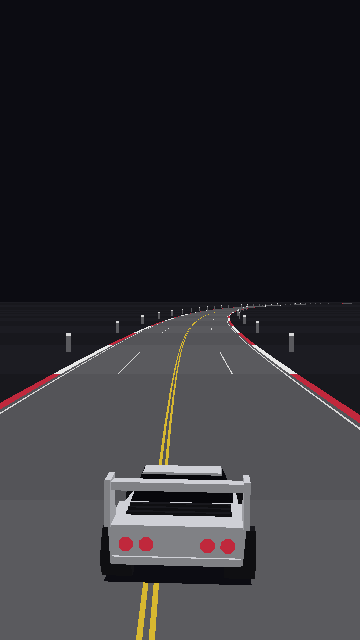
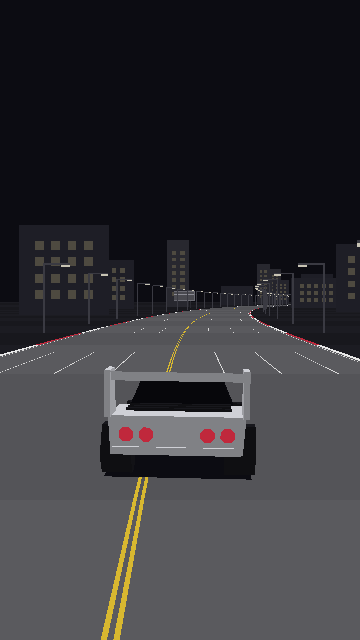
Shots: roadside scenario, new baselines; balance log

Changed region(s): [[0.0, 0.375, 1.0, 1.0]]

diff --git a/docs/balance.md b/docs/balance.md
@@ -109,3 +109,13 @@
 | 2026-11-19 | `test-twisty.json`: `hill` по секциям | — | 20, 40, −60, 30, −30, 50, −50, 0, 40, −20, 20, −40, 60, −60, 40, −20, 30, −50 (сумма 0) [старт] | R30: перепады высот по отзыву автора; только видимые; директор 2026-11-19 | скриншоты `hill-crest`, `hill-dip`, плейтест |
 | 2026-11-19 | `tunables.json`: `sprites.drift.yawMaxDeg` min | 0 | 1 | при 0 деление на ноль в расчёте крена, 3D-машина исчезала (ревью) | — |
 | 2026-11-19 | состояние гейта на конце ветки `feat/stage2b` | — | NO-GO: `expert-gap` 0.0% при [0.03, 0.15]; остальное PASS (novice 140.8 с, average = expert 82.59 с, возврат 0.55 с) | открытая находка: удержание дрифта ничего не стоит; коридор не менялся; решение за автором (кандидат H1 B) | `npm run bot && npm run gate` |
+| 2026-11-19 | `road.json`: `halfWidth` | 500 | 1000 | R22c, третий отзыв автора: дорога вдвое шире; рендер-часть (x в полуширинах, боковые числа симуляции правятся отдельно) | скриншоты `straight`, `roadside`: 8 полос, полоса у машины ≈ 135 px |
+| 2026-11-19 | `road.json`: `lanes` | 4 | 8 | R22c: ширина полосы в мире та же (250 ед.) | скриншот `straight` |
+| 2026-11-19 | `road.json`: `rumbleWidth`, `laneMarkerWidth`, `centreGap`, `edgeLineInset`, `edgeLineWidth` | 0.07, 0.012, 0.012, 0.03, 0.015 | 0.035, 0.006, 0.006, 0.015, 0.0075 | R22c: доли полуширины ×0.5 — мировая ширина линий и бордюра та же, толщина в px на той же высоте экрана та же (у машины на новой высоте ≈ 3 px вместо 5) | скриншоты `straight`, `curve-left` |
+| 2026-11-19 | `sprites.json`: `player.baseY` | 0.9 | 0.74 | R33: под машиной свободная полоса ≈ четверть экрана (166 px из 640), дорога рисуется до низа | `tests/render/roadside.test.ts` R33; скриншот `straight` |
+| 2026-11-19 | `sprites.json`: `capacity` | 512 | 1024 | R32: объекты у трассы ≈ 230 инстансов в кадре, запас | smoke: 3 draw call, ≤ 7070 треугольников (stress) |
+| 2026-11-19 | `sprites.json`: `roadside.lamps` | — (`posts`: every 4, offset 1.4, 30×120) | every 4, offset 1.4, drawDistance 100, height 700, poleWidth 24, armLength 260, armThickness 18, headWidth 90, headHeight 24 [старт] | R32: фонари парами вместо столбиков (столбики убраны); фонарь ≈ 10 м при полосе 250 ед. ≈ 3.5 м | скриншот `roadside` |
+| 2026-11-19 | `sprites.json`: `roadside.billboards` | — | everyMin 40, everyMax 90, offset 2.2, drawDistance 160, width 900, height 420, legHeight 320, legWidth 30, legInset 0.2, frame 0.06, stripeY 0.55, stripeHeight 0.14 [старт] | R32: изредка, не на сегменте фонаря | `tests/render/roadside.test.ts`; скриншот `roadside` |
+| 2026-11-19 | `sprites.json`: `roadside.buildings` | — | everyMin 6, everyMax 14, offset 3–6, variants 4, drawDistance 250, windowMinPx 24, windowMargin 0.14, windowGap 0.45; формы 1600×2400 (3×5 окон), 2400×1400 (5×3), 1200×3600 (2×7), 2000×2000 (4×4) [старт] | R32: средний план; окна только у ближних строений (бюджет инстансов) | скриншот `roadside` |
+| 2026-11-19 | `scenarios.json`: `roadside` | — | прямая, z 55, 1 тик [старт] | R32: в кадре пара фонарей, билборд (сегмент 71 при seed 1) и строения | скриншот `roadside` |
+| 2026-11-19 | `palette.json`: `lampPole`, `lampHead`, `billboardLeg`, `billboardFrame`, `billboard[4]`, `billboardStripe`, `building[4]`, `buildingWindow`; `postCap` убран | — | #3a3a42, #c8c4b4, #2a2a31, #6a6a72, #3c3848/#48383c/#34424a/#4a4a50, #8a8a92, #24242c/#202028/#28282f/#1e1e26, #4e4a40 [старт] | R32: тёмные низконасыщенные заглушки, без кислотных цветов; в арт-библию не внесены | скриншот `roadside` |
